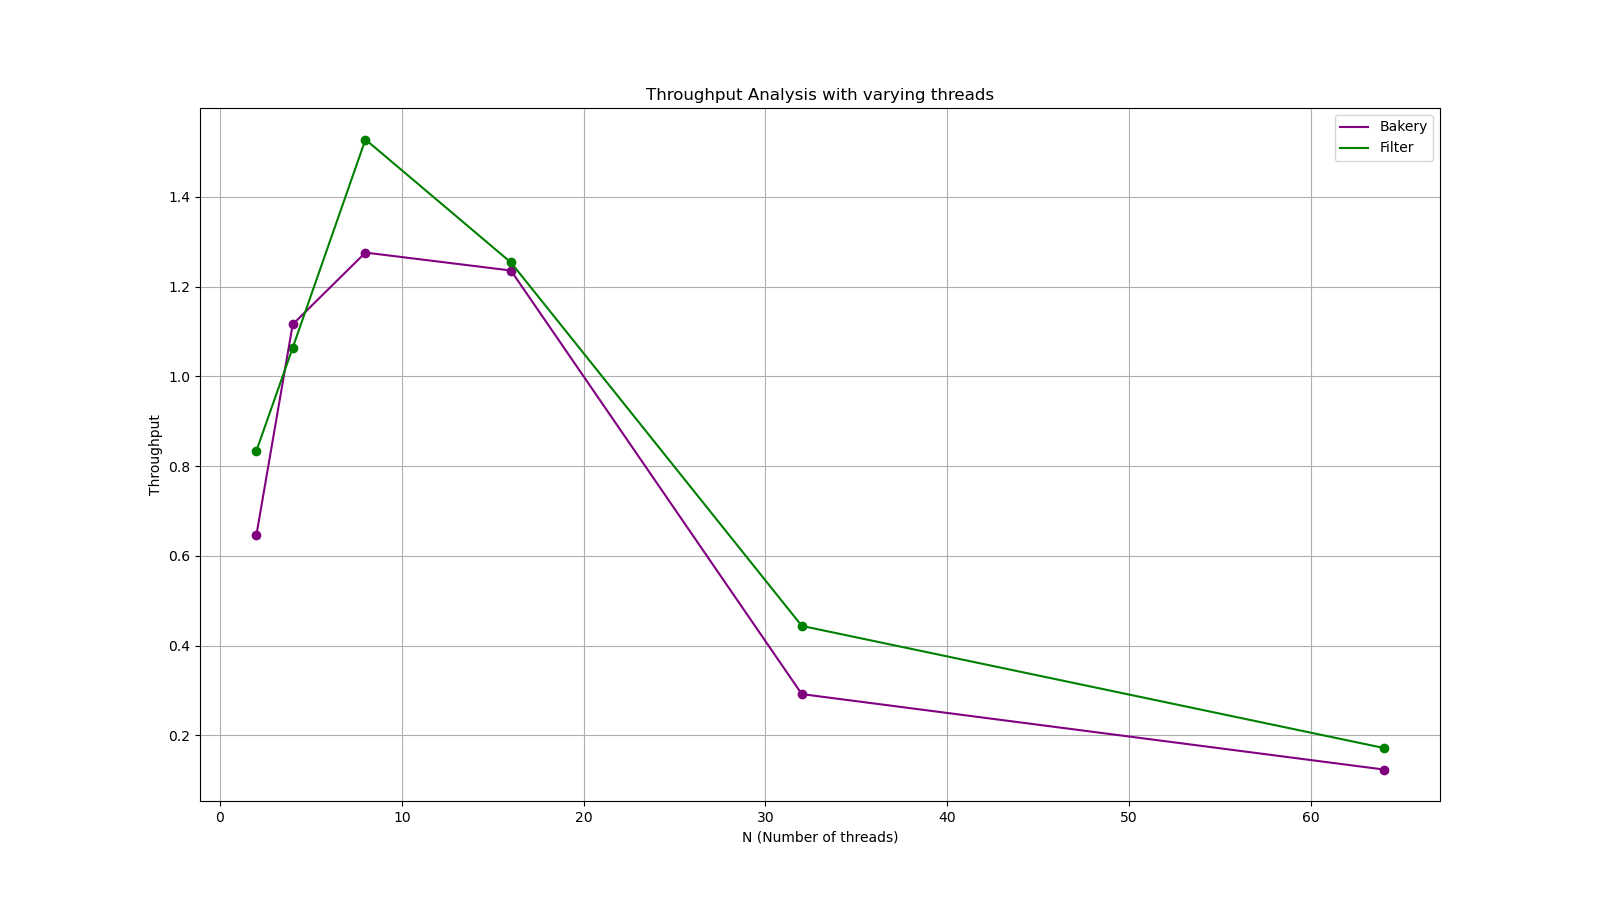
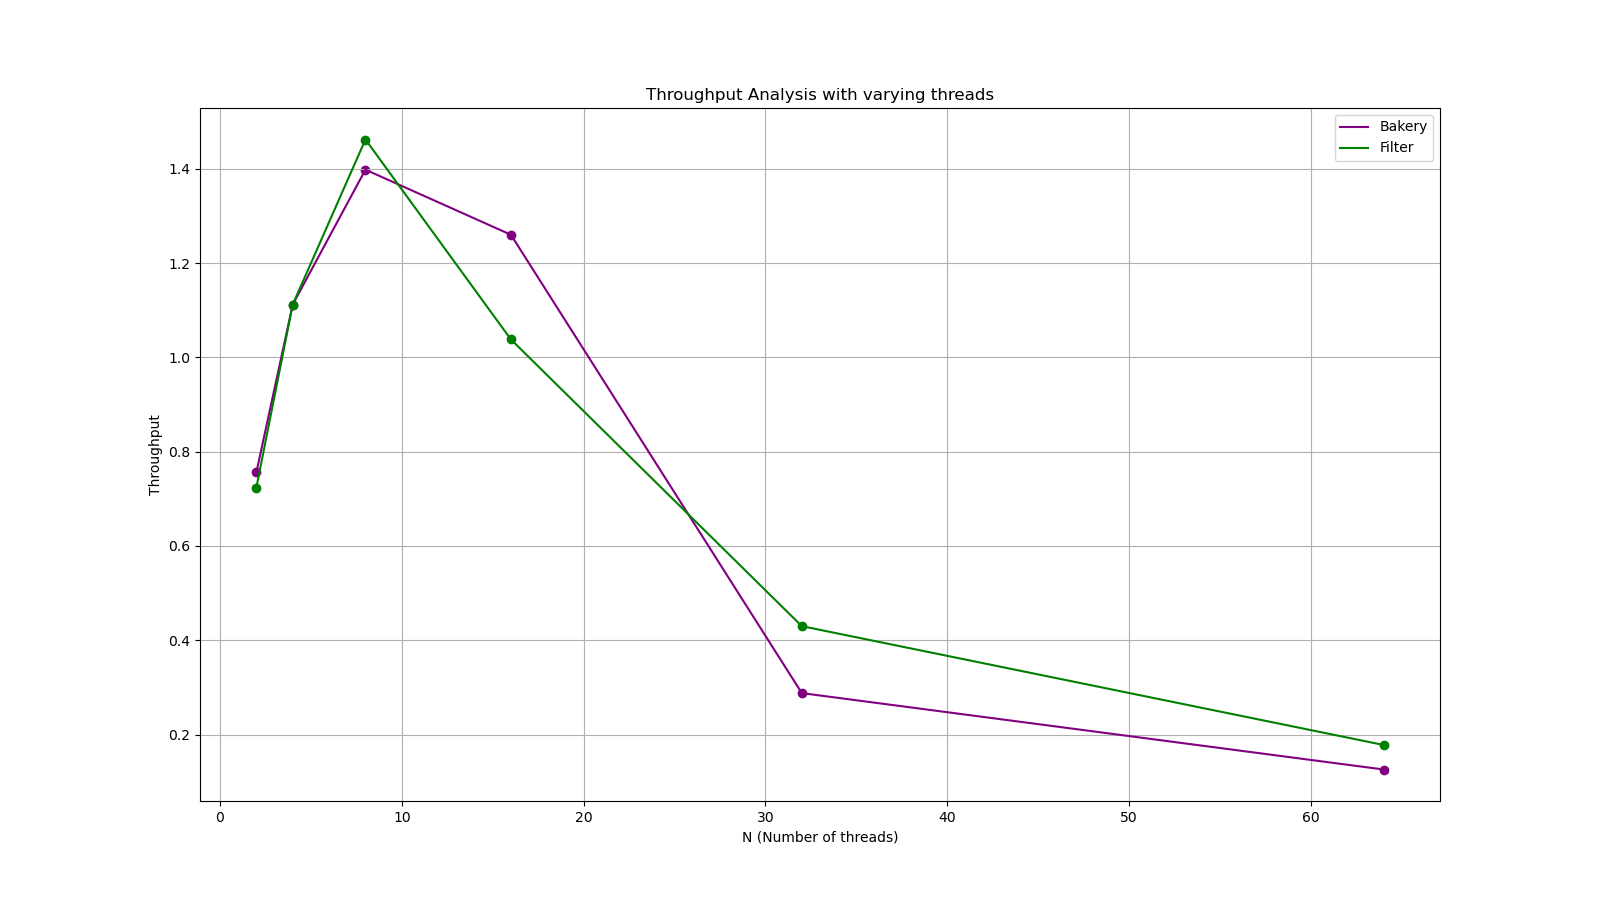
Experiment round 2

diff --git a/CS5300/Assignment 3/analysis/exp4b.py b/CS5300/Assignment 3/analysis/exp4b.py
@@ -7,9 +7,76 @@ def avg(a,b,c,d,e):
     return (a+b+c+d+e)
 
 
+# ===================================================
+# Experiment: ./inputs/4/k-05.txt
+# [Bakery] Throughput, Average, Worst: [1.09589, 9.6875, 11.6]
+# [Bakery] Throughput, Average, Worst: [0.851064, 14.05, 15.8]
+# [Bakery] Throughput, Average, Worst: [1.05263, 11.8, 13.2]
+# [Bakery] Throughput, Average, Worst: [1.45455, 5.5625, 7]
+# [Bakery] Throughput, Average, Worst: [1.56863, 6.125, 7]
+# ---------------------------------------------------
+# [Filter] Throughput, Average, Worst: [1.19403, 9.125, 10.4]
+# [Filter] Throughput, Average, Worst: [0.952381, 12.375, 14]
+# [Filter] Throughput, Average, Worst: [1.40351, 6.95, 8]
+# [Filter] Throughput, Average, Worst: [0.869565, 14.0875, 16.4]
+# [Filter] Throughput, Average, Worst: [1.25, 6.7875, 7.8]
+# ===================================================
+# Experiment: ./inputs/4/k-10.txt
+# [Bakery] Throughput, Average, Worst: [1.18519, 8.9875, 10.4]
+# [Bakery] Throughput, Average, Worst: [0.833333, 15.4312, 16.6]
+# [Bakery] Throughput, Average, Worst: [0.909091, 13.3562, 14.1]
+# [Bakery] Throughput, Average, Worst: [1.15942, 9.93125, 10.9]
+# [Bakery] Throughput, Average, Worst: [0.883978, 12.925, 13.7]
+# ---------------------------------------------------
+# [Filter] Throughput, Average, Worst: [0.903955, 13.175, 14]
+# [Filter] Throughput, Average, Worst: [1.24031, 8.625, 9.3]
+# [Filter] Throughput, Average, Worst: [1.25984, 8.95625, 9.9]
+# [Filter] Throughput, Average, Worst: [1.00629, 11.3313, 12.3]
+# [Filter] Throughput, Average, Worst: [1.05263, 11.6375, 12.7]
+# ===================================================
+# Experiment: ./inputs/4/k-15.txt
+# [Bakery] Throughput, Average, Worst: [1.15942, 10.3083, 10.9333]
+# [Bakery] Throughput, Average, Worst: [1.05727, 10.875, 11.8]
+# [Bakery] Throughput, Average, Worst: [1.21827, 9.56667, 10.1333]
+# [Bakery] Throughput, Average, Worst: [1.53846, 5.79167, 6.66667]
+# [Bakery] Throughput, Average, Worst: [0.808081, 15.6083, 16.5333]
+# ---------------------------------------------------
+# [Filter] Throughput, Average, Worst: [1.16505, 9.99583, 11]
+# [Filter] Throughput, Average, Worst: [1.21827, 9.63333, 10.6]
+# [Filter] Throughput, Average, Worst: [0.991736, 12.5708, 13.1333]
+# [Filter] Throughput, Average, Worst: [1.5, 7.25833, 7.86667]
+# [Filter] Throughput, Average, Worst: [1.5, 7.25417, 7.73333]
+# ===================================================
+# Experiment: ./inputs/4/k-20.txt
+# [Bakery] Throughput, Average, Worst: [1.01587, 12.0406, 12.5]
+# [Bakery] Throughput, Average, Worst: [1.35021, 8.64375, 9.25]
+# [Bakery] Throughput, Average, Worst: [1.0596, 11.6562, 12.8]
+# [Bakery] Throughput, Average, Worst: [1.34454, 8.34062, 8.95]
+# [Bakery] Throughput, Average, Worst: [1.70213, 6.26875, 6.65]
+# ---------------------------------------------------
+# [Filter] Throughput, Average, Worst: [1.44796, 7.70312, 8.45]
+# [Filter] Throughput, Average, Worst: [1.19403, 9.60625, 10.3]
+# [Filter] Throughput, Average, Worst: [1.49533, 7.29063, 8.05]
+# [Filter] Throughput, Average, Worst: [1.07383, 10.9125, 11.65]
+# [Filter] Throughput, Average, Worst: [1.40351, 8.18437, 8.75]
+# ===================================================
+# Experiment: ./inputs/4/k-25.txt
+# [Bakery] Throughput, Average, Worst: [1.25392, 9.3325, 10]
+# [Bakery] Throughput, Average, Worst: [1.41844, 8.1175, 8.44]
+# [Bakery] Throughput, Average, Worst: [1.3468, 8.6425, 9.2]
+# [Bakery] Throughput, Average, Worst: [1.12676, 10.6425, 11.32]
+# [Bakery] Throughput, Average, Worst: [1.35593, 8.195, 8.68]
+# ---------------------------------------------------
+# [Filter] Throughput, Average, Worst: [1.17302, 9.635, 10.28]
+# [Filter] Throughput, Average, Worst: [1.26183, 8.92, 9.4]
+# [Filter] Throughput, Average, Worst: [1.35135, 8.4825, 8.96]
+# [Filter] Throughput, Average, Worst: [1.13636, 10.7925, 11.72]
+# [Filter] Throughput, Average, Worst: [1.28617, 8.905, 9.2]
+# ===================================================
+
 K = [5, 10, 15, 20, 25]
-B = [avg(42,47,39,51,79), avg(93,67,101,112,83), avg(124,123,184,163,150), avg(292,239,254,226,222), avg(274,229,376,259,260)]
-F = [avg(46,53,32,51,43), avg(100,96,159,102,98), avg(136,154,169,117,155), avg(196,212,261,193,196), avg(295,263,314,198,281)]
+B = [avg(11.6,15.8,13.2,7,7), avg(10.4,16.6,14.1,10.9,13.7), avg(10.93,11.8,10.13,6.67,16.53), avg(12.5,9.25,12.8,8.95,6.65), avg(10,8.44,9.2,11.32,8.68)]
+F = [avg(10.4,14,8,16.4,7.8), avg(14,9.3,9.9,12.3,12.7), avg(11,10.6,13.13,7.86,7.73), avg(8.45,10.3,8.05,11.65,8.75), avg(10.28,9.4,8.96,11.72,9.2)]
 
 # make a big plot
 plt.figure(figsize=(16, 9))

diff --git a/CS5300/Assignment 3/analysis/exp1.py b/CS5300/Assignment 3/analysis/exp1.py
@@ -8,8 +8,8 @@ def avg(a,b,c,d,e):
 
 
 N = [2, 4, 8, 16, 32, 64]
-B = [avg(0.50,0.77,0.64,0.51,0.81), avg(1.11,1.22,1.13,1.11,1.01), avg(1.20,1.34,1.22,1.42,1.20), avg(1.34,1.20,1.04,1.42,1.18), avg(0.30,0.31,0.27,0.28,0.30), avg(0.13, 0.12,0.13,0.12,0.12)]
-F = [avg(0.97,0.53,0.68,1.20,0.79), avg(1.17,1.05,1.11,1.07,0.92), avg(1.71,1.52,1.54,1.58,1.29), avg(1.11,1.34,1.24,1.37,1.21), avg(0.45,0.46,0.48,0.40,0.43), avg(0.18,0.17,0.17,0.17,0.17)]
+B = [avg(1.03,0.85,0.64,0.6,0.66), avg(0.97,1.34,1.05,1.09,1.11), avg(1.36,1.46,1.64,1.17,1.36), avg(1.5,1.24,1.24,1.21,1.11), avg(0.28,0.28,0.29,0.30,0.29), avg(0.13,0.13,0.12,0.13,0.12)]
+F = [avg(0.79,0.88,0.67,0.61,0.67), avg(1.13,1.11,1.01,1.13,1.18), avg(1.24,1.45,1.35,1.6,1.67), avg(1.04,0.84,1.13,1.08,1.10), avg(0.39,0.44,0.43,0.44,0.45), avg(0.19,0.17,0.18,0.17,0.18)]
 
 # make a big plot
 plt.figure(figsize=(16, 9))

diff --git a/CS5300/Assignment 3/analysis/exp3a.py b/CS5300/Assignment 3/analysis/exp3a.py
@@ -8,8 +8,8 @@ def avg(a,b,c,d,e):
 
 
 N = [2, 4, 8, 16, 32, 64]
-B = [avg(5,3,1,1,2), avg(2,4,5,6,9), avg(19,23,27,29,35), avg(87,60,136,109,96), avg(1041,1067,1050,947,1046), avg(4839,4862,4935,4846,5152)]
-F = [avg(2,1,0,4,5), avg(4,9,15,6,11), avg(25,31,21,29,24), avg(81,52,77,154,92), avg(691,594,807,654,615), avg(3575,2026,3469,3486,3225)]
+B = [avg(0.25,0.80,0.15,0.10,0.35), avg(1.20,0.73,0.37,0.77,0.70), avg(1.93,1.85,2.42,2.26,1.48), avg(7.79,9.82,9.08,9.90,10.68), avg(104.01,88.83,99.20,96.34,95.76), avg(407.35,458.88,455.78,441.78,452.15)]
+F = [avg(0.00,0.05,0.05,0.30,0.05), avg(0.20,1.10,0.75,0.38,0.33), avg(2.01,2.50,1.91,1.75,2.36), avg(8.96,9.63,7.52,12.25,9.13), avg(067.26,70.12,63.99,68.85,56.12), avg(309.36,343.41,342.22,303.57,312.70)]
 
 # make a big plot
 plt.figure(figsize=(16, 9))

diff --git a/CS5300/Assignment 3/analysis/exp2.py b/CS5300/Assignment 3/analysis/exp2.py
@@ -8,8 +8,8 @@ def avg(a,b,c,d,e):
 
 
 K = [5, 10, 15, 20, 25]
-B = [avg(1.57,1.16,1.38,1.03,1.07), avg(0.92,0.88,1.34,1.32,1.30), avg(0.99,1.22,1.01,0.94,1.40), avg(1.40,0.98,1.08,1.34,1.24), avg(1.34,1.05,1.34,1.00,1.43)]
-F = [avg(0.88,1.36,1.19,1.01,1.19), avg(1.06,1.27,1.86,1.37,1.45), avg(1.03,1.34,1.28,1.07,1.04), avg(1.26,0.98,1.33,1.16,1.32), avg(1.03,1.43,1.32,1.03,1.30)]
+B = [avg(1.38,1.00,1.11,0.95,1.38), avg(1.19,1.50,1.67,0.71,1.19), avg(1.22,1.01,1.17,1.28,1.66), avg(1.30,1.52,0.89,1.46,0.85), avg(1.32,1.36,1.13,1.09,1.03)]
+F = [avg(1.03,1.21,1.31,1.29,1.11), avg(1.19,1.10,0.75,1.05,1.08), avg(1.45,1.51,1.48,1.54,1.41), avg(1.13,1.21,1.33,1.34,1.45), avg(1.37,1.32,1.32,1.19,1.10)]
 
 # make a big plot
 plt.figure(figsize=(16, 9))

diff --git a/CS5300/Assignment 3/analysis/exp3b.py b/CS5300/Assignment 3/analysis/exp3b.py
@@ -8,8 +8,8 @@ def avg(a,b,c,d,e):
 
 
 N = [2, 4, 8, 16, 32, 64]
-B = [avg(5,6,1,2,5), avg(5,9,8,8,10), avg(26,26,32,35,44), avg(99,70,146,123,106), avg(1068,1100,1080,973,1075), avg(4936,4964,5050,4943,5265)]
-F = [avg(4,2,0,4,4), avg(6,10,17,11,16), avg(29,36,26,36,35), avg(92,58,85,175,104), avg(736,635,860,702,664), avg(3759,3224,3645,3628,3419)]
+B = [avg(0.3,1.2,0.2,0.1,0.5), avg(1.6,1.2,0.5,1.1,1.3), avg(2.4,2.4,3,2.9,2.2), avg(8.9,10.7,10.1,11.1,11.5), avg(106.8,91.7,103.2,98.6,98.6), avg(415.2,468.2,465.1,451.4,462.6)]
+F = [avg(0,0.1,0.1,0.6,0.1), avg(0.3,1.3,1,0.5,0.5), avg(2.4,3.1,2.2,2.3,2.8), avg(9.9,11.1,8.5,13.2,10.5), avg(71,75.4,68.5,74,60.1), avg(322.8,355.3,356.8,317.4,327.7)]
 
 # make a big plot
 plt.figure(figsize=(16, 9))

diff --git a/CS5300/Assignment 3/analysis/exp4a.py b/CS5300/Assignment 3/analysis/exp4a.py
@@ -8,8 +8,8 @@ def avg(a,b,c,d,e):
 
 
 K = [5, 10, 15, 20, 25]
-B = [avg(37,41,35,47,72), avg(87,59,93,102,74), avg(115,111,177,152,137), avg(278,225,244,212,205), avg(258,205,361,240,240)]
-F = [avg(40,44,28,46,33), avg(91,83,149,92,85), avg(123,148,152,105,143), avg(184,198,244,183,182), avg(277,253,296,190,267)]
+B = [avg(9.68,14.05,11.80,5.56,6.12), avg(8.98,15.43,13.35,9.93,12.92), avg(10.30,10.87,9.57,5.80,15.61), avg(12.04,8.64,11.65,8.34,6.26), avg(9.33,8.11,8.64,10.64,8.19)]
+F = [avg(9.12,12.38,6.95,14.08,6.78), avg(13.18,8.62,8.95,11.33,11.63), avg(9.99,9.63,12.57,7.25,7.25), avg(7.70,9.60,7.30,10.91,8.18), avg(9.635,8.92,8.4825,10.7925,8.905)]
 
 # make a big plot
 plt.figure(figsize=(16, 9))
